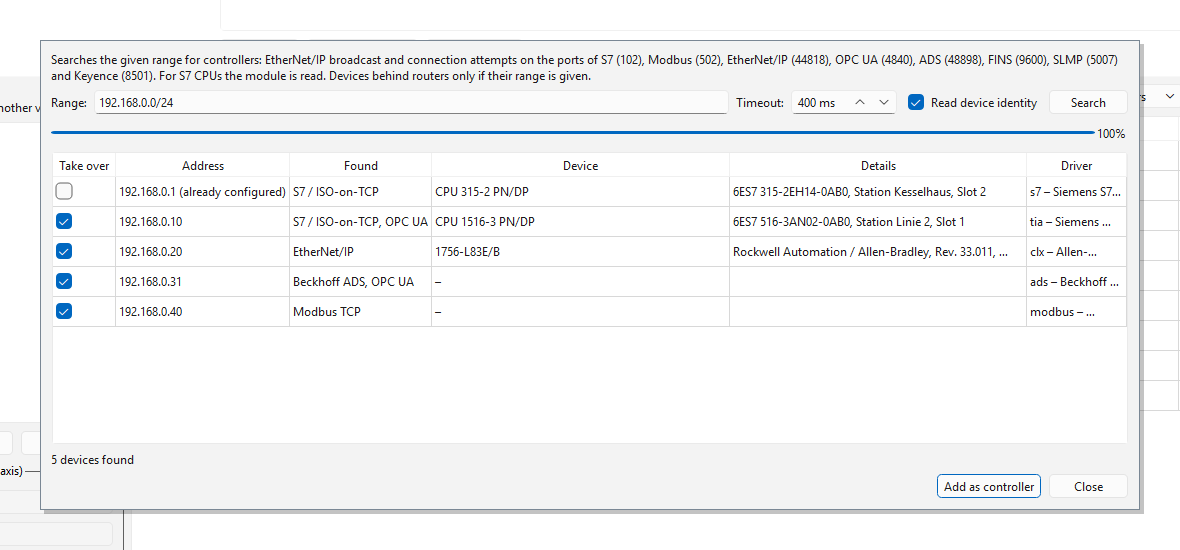
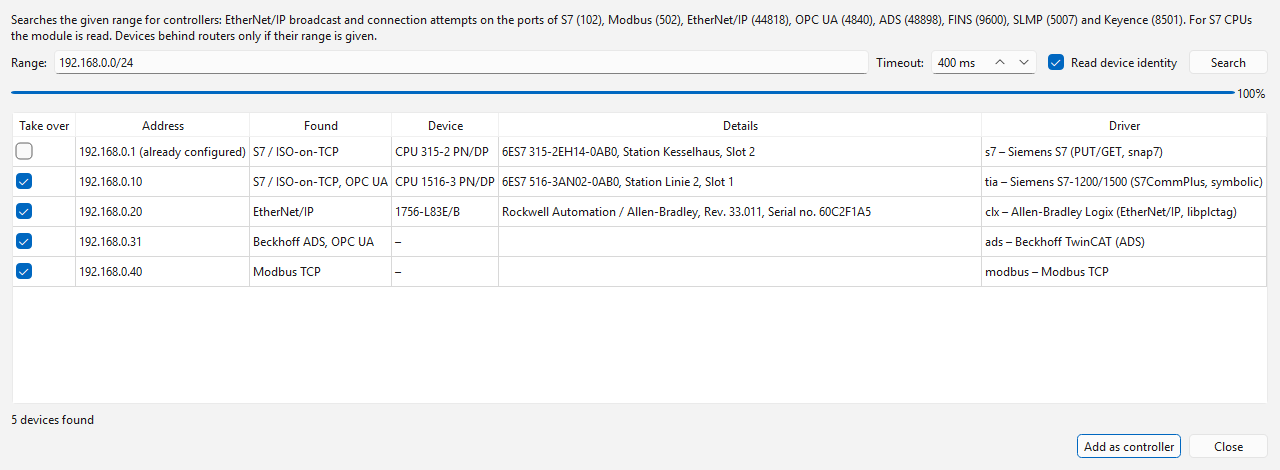
Anleitung: Bild der Netzwerksuche (deutsch und englisch)
Claude-Session: https://claude.ai/code/session_01Q6oQyvEyXL3m776U2nsG9c

Changed region(s): [[0.0, 0.0298, 1.0, 0.983]]

diff --git a/doc/bedienungsanleitung.rst b/doc/bedienungsanleitung.rst
@@ -445,6 +445,14 @@ Der obere Fensterbereich ist in mehrere Reiter gegliedert.
        Adressen sind gekennzeichnet und nicht vorgewählt. Geräte hinter Routern werden
        nur gefunden, wenn ihr Bereich angegeben ist; eine Firewall kann Ports sperren.
 
+       .. figure:: images/netzwerksuche.png
+          :alt: Netzwerk durchsuchen
+          :width: 95%
+          :align: center
+
+          Netzwerk durchsuchen: gefundene Steuerungen mit Kennung und Treibervorschlag; die schon
+          konfigurierte Adresse ist nicht vorgewählt.
+
 **Einstellungsdialog der Verbindung.** Der Dialog wird aus den Parametern des
 Treibers aufgebaut (Textfelder, Zahlen, Auswahllisten, Passwortfelder).
 Selten benötigte Parameter stehen im Bereich *Erweitert*. Unten zeigt der Dialog,

diff --git a/doc/user_manual.rst b/doc/user_manual.rst
@@ -441,6 +441,14 @@ The upper part of the window is divided into several tabs.
        Devices behind routers are only found if their range is given; a firewall can
        block ports.
 
+       .. figure:: images/en/netzwerksuche.png
+          :alt: Scan network
+          :width: 95%
+          :align: center
+
+          Scan network: controllers found with identity and driver suggestion; the address
+          already configured is not preselected.
+
 **Connection settings dialog.** The dialog is built from the driver's parameters
 (text fields, numbers, choice lists, password fields). Rarely needed parameters are in
 the *Advanced* section. At the bottom the dialog shows whether the required library is
